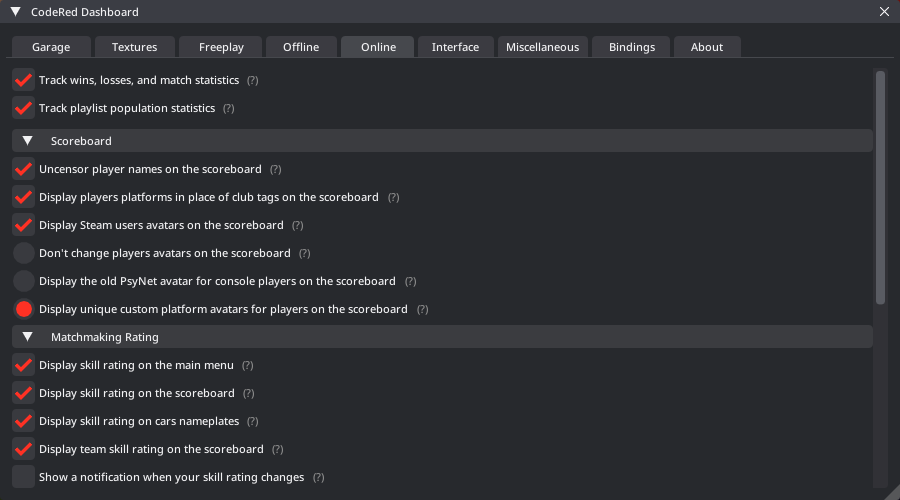
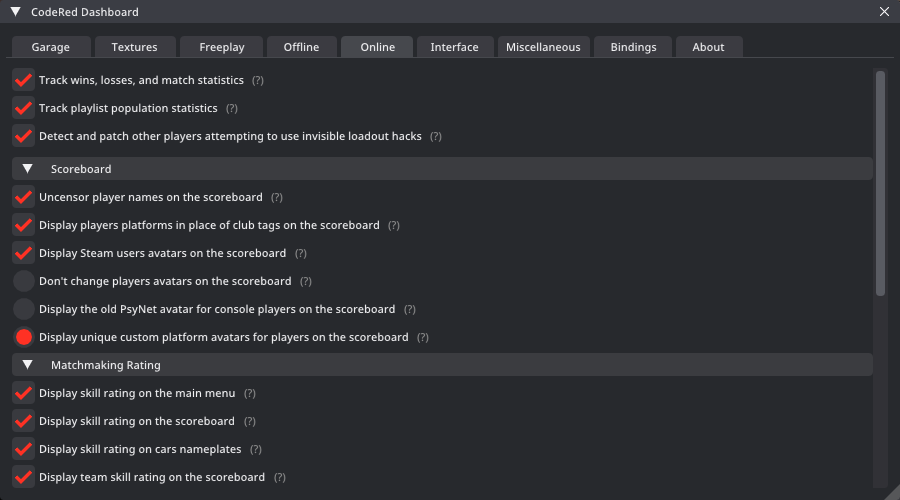
Initial Commit

diff --git a/changelog.html b/changelog.html
@@ -47,6 +47,7 @@
 		    <nav id="docs-nav" class="docs-nav navbar">
 			    <ul class="section-items list-unstyled nav flex-column pb-3">
                     <li class="nav-item section-title mt-3"><a class="nav-link scrollto" href="#section-3"><span class="theme-icon-holder me-2"><i class="fas fa-book"></i></span>Module Changelog</a></li>
+                    <li class="nav-item"><a class="nav-link scrollto" href="#item-3-5-1">Version 2.5.1</a></li>
                     <li class="nav-item"><a class="nav-link scrollto" href="#item-3-5-0">Version 2.5.0</a></li>
                     <li class="nav-item"><a class="nav-link scrollto" href="#item-3-4-9">Version 2.4.9</a></li>
                     <li class="nav-item"><a class="nav-link scrollto" href="#item-3-4-8">Version 2.4.8</a></li>
@@ -252,6 +253,19 @@
 		    <div class="container">
                 <article class="docs-article" id="section-3">
                     <h1 class="docs-heading">Changelog</h1>
+
+                        <section class="docs-section" id="item-3-5-1">
+                            <h2 class="section-heading">Version 2.5.1 (February 3rd 2025)</h2>
+                            <h5>- Temporarily disabled custom player avatars while I work on a fix for them being destroyed randomly after scoring goals.</h5>
+                            <h5>- Added a new setting <code>garage_patch_invisible</code> which attempts to detect and patch people using invisible loadout hacks. Before this was hardcoded in but it can now be turned on or off.</h5>
+                            <h5>- Fixed some cars in online matches randomly having the stocktane preset applied to them despite not using any anonymizer settings.</h5>
+                            <h5>- Fixed some titles not restoring to their original colors on the scoreboard if you disabled loadouts mid-game.</h5>
+                            <h5>- Fixed a rare thread racing crash that could happen with the reflector window and clearing instances.</h5>
+                            <h5>- Fixed the <code>freeplay_goal_speed</code> setting spamming the balls speed in chat in online matches.</h5>
+                            <h5>- Fixed the matchmaker window missing some limited time events and the new Split Shot modes.</h5>
+                            <h5>- Internal bug fixes and optimizations related to API requests.</h5>
+                            <h5>- Upgraded the internal ImGui framework to version 1.91.8.</h5>
+                        </section>
 
                         <section class="docs-section" id="item-3-5-0">
                             <h2 class="section-heading">Version 2.5.0 (January 28th 2025)</h2>

diff --git a/documentation.html b/documentation.html
@@ -1013,6 +1013,10 @@
                                         <th class="theme-bg-light"><b>garage_hide_loadouts &lttrue-false&gt</b></th>
                                         <td>Removes all products from players loadouts that you encounter online that aren't stock products.</td>
                                     </tr>
+                                    <tr>
+                                        <th class="theme-bg-light"><b>garage_patch_invisible &lttrue-false&gt</b></th>
+                                        <td>Attempts to detect invisible loadout hacks from other players, and applies the stocktane preset to them.</td>
+                                    </tr>
                                 </tbody>
                             </table>
                         </div>
